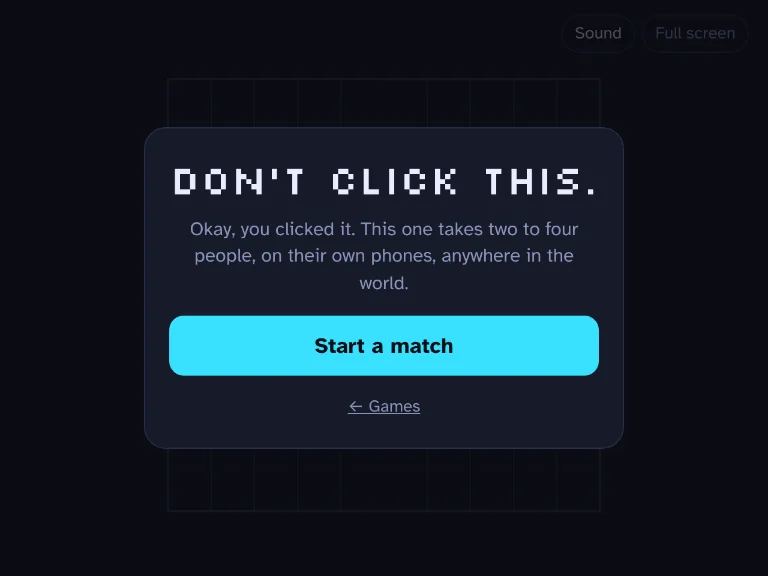
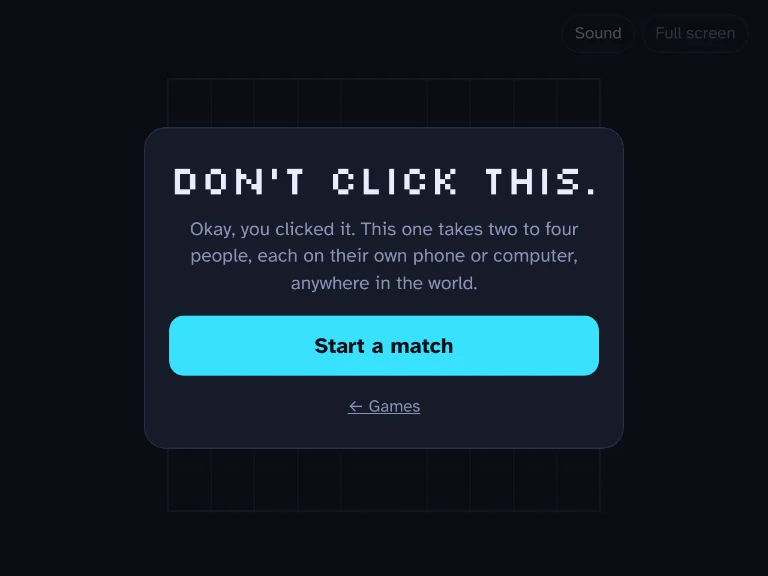
Rooms on computers too: background tabs stay in; Don't click this desktop fixes
rooms.js pings from a worker, so a computer with the match in a background tab
(throttled timers) isn't dropped; it also reconnects while hidden. Don't click
this: the Back button no longer shows while waiting alone (hidden was overridden
by CSS), computers get one big Copy link button and an arrow-key hint, and the
copy says screens and players, not phones. Harness opens computers; the game
test plays with three phones and a computer; rooms.js test covers a tab whose
timers are stopped.

Changed region(s): [[0.25, 0.4375, 0.75, 0.5]]

diff --git a/site/assets/rooms.js b/site/assets/rooms.js
@@ -27,6 +27,23 @@ window.Rooms = (function () {
     const c = (location.hash || '').slice(1).toLowerCase();
     return CODE.test(c) ? c : null;
   }
+  // A repeating timer that keeps time in a background tab. Browsers slow a hidden tab's own timers (Chrome to
+  // once a minute after five minutes), which would get a desktop player dropped from the match while they're in
+  // another tab, say pasting the link into a chat. A worker's timers aren't slowed that way, so pings keep going.
+  // Falls back to setInterval where a worker can't start.
+  function steady(fn, ms) {
+    try {
+      const src = 'setInterval(function () { postMessage(0); }, ' + ms + ');';
+      const url = URL.createObjectURL(new Blob([src], { type: 'text/javascript' }));
+      const w = new Worker(url);
+      URL.revokeObjectURL(url);
+      w.onmessage = fn;
+      return () => w.terminate();
+    } catch (e) {
+      const t = setInterval(fn, ms);
+      return () => clearInterval(t);
+    }
+  }
   const store = {
     get(k) { try { return sessionStorage.getItem(k); } catch (e) { return null; } },
     set(k, v) { try { sessionStorage.setItem(k, v); } catch (e) {} }
@@ -75,7 +92,7 @@ window.Rooms = (function () {
     if (!me) { me = newCode() + newCode(); store.set(meKey, me); }
 
     const handlers = {};
-    let ws = null, retries = 0, retryTimer = null, pingTimer = null, lastPong = 0, pingAt = 0, ready = false, done = false;
+    let ws = null, retries = 0, retryTimer = null, stopPings = null, lastPong = 0, pingAt = 0, ready = false, done = false;
     let kicks = 0, helloAt = 0;   // times the room let us go (too many messages, or silent) without a long stay in between
     const present = new Set();
     const room = {
@@ -108,7 +125,7 @@ window.Rooms = (function () {
       clearTimeout(retryTimer);
       if (done) return;
       if (ws) { ws.onclose = ws.onmessage = ws.onerror = null; try { ws.close(); } catch (e) {} }
-      clearInterval(pingTimer); lastPong = 0;
+      lastPong = 0;
       const q = new URLSearchParams({ me });
       if (room.game) q.set('game', room.game);
       if (opts.secret) q.set('s', opts.secret);
@@ -128,7 +145,7 @@ window.Rooms = (function () {
       retryTimer = setTimeout(dial, ms != null ? ms : retries === 1 ? 200 : Math.min(8000, 500 * Math.pow(2, retries - 2)));
     }
     function stop() {
-      clearTimeout(retryTimer); clearInterval(pingTimer);
+      clearTimeout(retryTimer); if (stopPings) { stopPings(); stopPings = null; }
       if (ws) { const s = ws; ws = null; s.onclose = s.onmessage = null; try { s.close(1000); } catch (e) {} }
     }
     function ping() {
@@ -152,7 +169,8 @@ window.Rooms = (function () {
         retries = 0; lastPong = helloAt = performance.now();
         const oldSeat = room.seat;
         room.seat = m.seat; room.max = m.max || 0; store.set(seatKey, String(m.seat));
-        clearInterval(pingTimer); pingTimer = setInterval(ping, PING_EVERY); ping();
+        if (!stopPings) stopPings = steady(ping, PING_EVERY);
+        ping();
         // After a reconnect, catch up on who came and went while we were away.
         const now = new Set(m.seats || []);
         for (const s of [...present]) if (!now.has(s)) { present.delete(s); if (ready) emit('leave', s); }
@@ -175,7 +193,6 @@ window.Rooms = (function () {
     }
 
     function onClose(code) {
-      clearInterval(pingTimer);
       if (ws) { ws.onclose = ws.onmessage = null; try { ws.close(); } catch (e) {} ws = null; }
       if (done) return;
       const refuse = reason => { done = true; setStatus('refused'); emit('refused', reason); };
@@ -184,8 +201,6 @@ window.Rooms = (function () {
       if (code === 4003) return refuse(opts.secret && !ready ? 'nope' : 'closed');
       if (code === 4004) return refuse('wrong-game');
       setStatus('reconnecting');
-      // A hidden page (another app, a locked phone) waits until it's looked at again; wake() reconnects it then.
-      if (document.visibilityState === 'hidden') return;
       if (code === 4005 || code === 4006) {
         // Let go by the room. Come straight back the first time; if it keeps happening, back off, so a game stuck
         // sending too much doesn't keep everyone seeing it leave and rejoin.

diff --git a/site/dont-click-this/index.html b/site/dont-click-this/index.html
@@ -5,20 +5,20 @@
 <meta name="viewport" content="width=device-width, initial-scale=1, viewport-fit=cover">
 <meta name="robots" content="noindex">
 <title>Don't click this — JonniePeed Games</title>
-<meta name="description" content="Up to four phones, anywhere. Send friends the link and find each other.">
+<meta name="description" content="Up to four players, on phones or computers, anywhere. Send friends the link and find each other.">
 <meta property="og:type" content="website">
 <meta property="og:site_name" content="JonniePeed Games">
 <meta property="og:title" content="Don't click this — JonniePeed Games">
-<meta property="og:description" content="Up to four phones, anywhere. Find each other.">
+<meta property="og:description" content="Up to four players, anywhere. Find each other.">
 <meta property="og:url" content="https://jonniepeed.games/dont-click-this/">
-<meta property="og:image" content="https://jonniepeed.games/dont-click-this/og.png?v=a8cd009a72">
+<meta property="og:image" content="https://jonniepeed.games/dont-click-this/og.png?v=0cd1d38aa7">
 <meta property="og:image:width" content="1200">
 <meta property="og:image:height" content="630">
 <meta property="og:image:alt" content="Two glowing dots, one blue and one orange, about to meet on a dark grid">
 <meta name="twitter:card" content="summary_large_image">
 <meta name="twitter:title" content="Don't click this — JonniePeed Games">
-<meta name="twitter:description" content="Up to four phones, anywhere. Find each other.">
-<meta name="twitter:image" content="https://jonniepeed.games/dont-click-this/og.png?v=a8cd009a72">
+<meta name="twitter:description" content="Up to four players, anywhere. Find each other.">
+<meta name="twitter:image" content="https://jonniepeed.games/dont-click-this/og.png?v=0cd1d38aa7">
 <meta name="twitter:image:alt" content="Two glowing dots, one blue and one orange, about to meet on a dark grid">
 <link rel="icon" href="../assets/favicon.ico?v=443c0101ac" sizes="any">
 <link rel="icon" type="image/png" href="../assets/favicon-32.png?v=569f3f592d">
@@ -28,6 +28,7 @@
 *{touch-action:manipulation}
 :root{--bg:#0b0d14;--ink:#e8ecff;--dim:#8a93b8;--you:#39e1ff;--them:#ff8a3d;--card:#151a29;--line:#262e48}
 *{box-sizing:border-box;margin:0}
+[hidden]{display:none!important}
 html,body{height:100%;background:var(--bg);color:var(--ink);font:16px/1.4 'Atkinson Hyperlegible',system-ui,sans-serif;overflow:hidden}
 #game{position:fixed;inset:0;background:var(--bg)}
 #c{position:absolute;inset:0;width:100%;height:100%;touch-action:none;display:block}
@@ -82,7 +83,7 @@ html,body{height:100%;background:var(--bg);color:var(--ink);font:16px/1.4 'Atkin
   <div class="overlay" id="titleCard">
     <div class="card">
       <h1>Don't click this.</h1>
-      <p>Okay, you clicked it. This one takes two to four people, on their own phones, anywhere in the world.</p>
+      <p>Okay, you clicked it. This one takes two to four people, each on their own phone or computer, anywhere in the world.</p>
       <button class="big" id="startBtn" type="button">Start a match</button>
       <a class="back" href="../">← Games</a>
     </div>
@@ -118,8 +119,8 @@ html,body{height:100%;background:var(--bg);color:var(--ink);font:16px/1.4 'Atkin
     </div>
   </div>
 </div>
-<script src="../assets/rooms.js?v=d1254e4c96"></script>
+<script src="../assets/rooms.js?v=70c7b43633"></script>
 <script src="audio.js?v=c699360794"></script>
-<script src="game.js?v=ea18b872ba"></script>
+<script src="game.js?v=e011cd435e"></script>
 </body>
 </html>

diff --git a/site/dont-click-this/game.js b/site/dont-click-this/game.js
@@ -22,6 +22,8 @@
   const banner = $('banner'), hint = $('hint'), roster = $('roster'), pingEl = $('ping');
   const titleCard = $('titleCard'), secretCard = $('secretCard'), shareCard = $('shareCard'), msgCard = $('msgCard');
   const inviteBtn = $('inviteBtn'), backBtn = $('backBtn');
+  // On a computer (a mouse and no touch screen), the hint mentions the arrow keys.
+  const keyboard = matchMedia('(hover: hover) and (pointer: fine)').matches;
   // Opening a match asks for the secret. It's always a meatball; the other two are random.
   const DECOYS = ['Pickle', 'Waffle', 'Taco', 'Pretzel', 'Dumpling', 'Burrito', 'Noodle', 'Nugget', 'Pancake', 'Crouton', 'Biscuit', 'Tater tot'];
 
@@ -179,9 +181,9 @@
   function syncHint() {
     const n = here().length;
     if (phase !== 'together') return;
-    hint.textContent = n === 0 ? 'Waiting for your friends to come back'
+    hint.textContent = (n === 0 ? 'Waiting for your friends to come back'
       : n === 1 ? 'Drag your dot into theirs'
-      : 'Touch a friend, or all pile into the middle';
+      : 'Touch a friend, or all pile into the middle') + (n && keyboard ? ' (or use the arrow keys)' : '');
   }
   function syncInvite() { inviteBtn.hidden = !(phase === 'together' && here().length + 1 < SEATS); }
   function drawRoster() {
@@ -247,7 +249,7 @@
     flash = big ? 1 : 0.5;
     SOUND.play('boom', big);
     buzz(big ? [200, 80, 300] : [120]);
-    if (big) say('WE DID IT', 'Different phones. One page. Across the internet.', 3600);
+    if (big) say('WE DID IT', 'Different screens. One page. Across the internet.', 3600);
     else if (performance.now() - lastPile > 3000) say(`×${booms}`, '', 900);   // don't cover EVERYONE!
   }
   function pile(mine) {
@@ -259,7 +261,7 @@
     flash = 1;
     SOUND.play('boom', true);
     buzz([300, 100, 300, 100, 400]);
-    say('EVERYONE!', `${seats.length} phones. One pile.`, 3600);
+    say('EVERYONE!', `All ${seats.length} of you. One pile.`, 3600);
   }
 
   // ---------- input ----------
@@ -310,6 +312,8 @@
   });
   inviteBtn.addEventListener('click', () => { SOUND.init(); SOUND.play('tap'); showShare(); });
   backBtn.addEventListener('click', () => { SOUND.play('tap'); hideCards(); });
+  // Computers without a share sheet get one button: Copy link, made the big one.
+  if (!navigator.share) { $('shareBtn').hidden = true; $('copyBtn').className = 'big'; }
   $('shareBtn').addEventListener('click', () => {
     SOUND.init();
     Rooms.share({ title: "Don't click this", text: "Play with me. Don't click this.", url: location.href }).then(r => { if (r === 'copied') copied(); });

diff --git a/tests/dont-click-this/test.py b/tests/dont-click-this/test.py
@@ -1,4 +1,4 @@
-"""Up to four phones in one match, end to end, against a local rooms Worker.
+"""Up to four players in one match, end to end, against a local rooms Worker: three phones and a computer.
 
 Start both servers first (see tests/rooms/harness.py, which this test uses):
 
@@ -20,8 +20,8 @@ SHOTS = Path(os.environ.get('SCREENSHOTS', '/tmp/dont-click-this'))
 SHOTS.mkdir(parents=True, exist_ok=True)
 
 
-def phone(phones):
-    page = phones.new()
+def phone(phones, desktop=False):
+    page = phones.new(desktop=desktop)
     return page.context, page
 
 
@@ -69,6 +69,7 @@ def main():
         link = a.input_value('#link')
         assert '#' in link and len(link.split('#')[1]) == 12, link
         a.wait_for_function("document.getElementById('ping').textContent === '' && !document.getElementById('shareCard').hidden")
+        assert a.locator('#waitText').is_visible() and a.locator('#backBtn').is_hidden(), 'alone: waiting, no Back button'
         a.screenshot(path=str(SHOTS / '2-waiting.png'))
         print('PASS start a match: link made, waiting for a friend')
 
@@ -117,14 +118,16 @@ def main():
         # A third and fourth phone join; everyone sees four.
         cc, c = phone(phones)
         c.goto(link)
-        cd, d = phone(phones)
+        cd, d = phone(phones, desktop=True)   # the fourth player is on a computer
         d.goto(link)
         for page in (a, b, c, d):
             wait_present(page, 4)
         assert a.locator('#inviteBtn').is_hidden()
+        assert 'arrow keys' in d.text_content('#hint') and 'arrow keys' not in a.text_content('#hint'), 'computers get the arrow-key hint'
+        d.screenshot(path=str(SHOTS / '6b-desktop-player.png'))
         c.wait_for_timeout(400)
         c.screenshot(path=str(SHOTS / '6-four-players.png'))
-        print('PASS four phones in one match, each sees all four; Invite hides when full')
+        print('PASS four players (three phones and a computer) in one match, each sees all four; Invite hides when full')
 
         # A fifth phone is turned away.
         ce, e = phone(phones)
@@ -136,7 +139,7 @@ def main():
 
         # Everyone piles into the middle: EVERYONE! on every phone.
         drag(c, 0.5, 0.28, 0.5, 0.5)
-        drag(d, 0.5, 0.72, 0.5, 0.5)
+        drag(d, 0.5, 0.72, 0.5, 0.5)   # with the mouse, on the computer
         drag(a, 0.5, 0.3, 0.5, 0.5)
         drag(b, 0.5, 0.3, 0.5, 0.5)
         for page in (a, b, c, d):

diff --git a/tests/rooms/harness.py b/tests/rooms/harness.py
@@ -1,7 +1,8 @@
 """Helpers for browser tests of games played together over the internet (site/assets/rooms.js).
 
-A test opens a few phone-sized browsers, each in its own context (its own session, like separate phones), and
-points them at the same match link. Start both servers first, then import this from a test:
+A test opens a few browsers, each in its own context (its own session, like separate devices), and points them
+at the same match link. Each is a phone by default; `phones.new(desktop=True)` is a computer with a mouse and a
+big window, so a test can mix the two the way real players do. Start both servers first, then import this from a test:
 
     python3 -m http.server 8000 --bind 127.0.0.1 --directory site
     (cd rooms && wrangler dev --local --port 8788 --var GHOST_MS:6000 --var LEAVE_GRACE_MS:500)
@@ -24,6 +25,7 @@ from playwright.sync_api import sync_playwright
 SITE = os.environ.get('SITE_URL', 'http://127.0.0.1:8000').rstrip('/')
 ROOMS_HTTP = 'http://localhost:8788'
 PHONE = dict(viewport={'width': 390, 'height': 844}, device_scale_factor=2, has_touch=True, is_mobile=True)
+DESKTOP = dict(viewport={'width': 1440, 'height': 900}, device_scale_factor=1, has_touch=False, is_mobile=False)
 
 
 def servers_up():
@@ -65,9 +67,9 @@ class Phones:
     def url(self, path=''):
         return SITE + '/' + path.lstrip('/')
 
-    def new(self, init_script=None, **options):
-        """A new phone: a fresh context (own session storage), one page."""
-        context = self.browser.new_context(**dict(self.options, **options))
+    def new(self, init_script=None, desktop=False, **options):
+        """A new player: a fresh context (own session storage), one page. A phone unless desktop=True."""
+        context = self.browser.new_context(**dict(DESKTOP if desktop else self.options, **options))
         self.contexts.append(context)
         page = context.new_page()
         if init_script:

diff --git a/tests/rooms/test.py b/tests/rooms/test.py
@@ -148,6 +148,23 @@ def main():
         assert dup.evaluate('room.players') == [2, 3]
         print('PASS a connection that dies silently is noticed and replaced; the player keeps its seat')
 
+        # ---------- background tabs ----------
+        # A computer with the match in a background tab: the browser slows that tab's own timers to a crawl.
+        # Here its setInterval and setTimeout do nothing at all; rooms.js pings from a worker, so it stays in.
+        bg = page_for(phones, init="window.setInterval = () => 0; window.setTimeout = () => 0;")
+        bg.set_viewport_size({'width': 1440, 'height': 900})
+        bg.goto(link)
+        bg.evaluate("watch(Rooms.join({ game: 'rooms-test' }))")
+        has(bg, "e[0] === 'ready' && e[1].seat === 1")
+        has(dup, "e[0] === 'join' && e[1] === 1")
+        since = dup.evaluate('log.length')
+        for _ in range(10):   # 10 s, past the local 6 s silent limit; messages keep the room checking
+            dup.evaluate("room.send({ t: 'tick' })")
+            dup.wait_for_timeout(1000)
+        assert bg.evaluate('sockets.length') == 1 and bg.evaluate("room.status") == 'connected'
+        assert not dup.evaluate(f"log.slice({since}).some(e => e[0] === 'leave' && e[1] === 1)")
+        print('PASS a tab whose own timers are stopped (a background tab) keeps pinging and stays in')
+
         wait(dup, 'room.rtt > 0')
         print('PASS round trip measured:', dup.evaluate('room.rtt'), 'ms')
         phones.check_no_errors()

diff --git a/tools/og/make.py b/tools/og/make.py
@@ -52,7 +52,7 @@ GAMES = [
      # the Mom Cam is in the cover's top-left corner, so the crop sits near the left edge
      None, {"cover": ("dont-step-on-a-crack.png", 0.18)}),
     # Side B two-player demo: a screenshot of its title card
-    ("dont-click-this", "Don't click this", "Up to four phones, anywhere. Find each other.", "Play with friends",
+    ("dont-click-this", "Don't click this", "Up to four players, anywhere. Find each other.", "Play with friends",
      None, {"screenshot": True}),
 ]
 

diff --git a/docs/games/dont-click-this.md b/docs/games/dont-click-this.md
@@ -1,6 +1,6 @@
 # Don't click this
 
-An unlisted proof of concept for playing together over the internet. Up to four phones, anywhere: one starts a match and sends the link, friends open it, and each sees everyone's dots moving live. When two dots touch they burst ("WE DID IT" the first time), and when three or four pile up together, every phone goes off: "EVERYONE!".
+An unlisted proof of concept for playing together over the internet. Up to four players, on phones or computers, anywhere: one starts a match and sends the link, friends open it, and each sees everyone's dots moving live. When two dots touch they burst ("WE DID IT" the first time), and when three or four pile up together, every phone goes off: "EVERYONE!".
 
 - Page: `site/dont-click-this/` (`index.html`, `audio.js`, `game.js`), noindexed. **Unlisted:** no card on Side A or Side B; reached only by its direct link, https://jonniepeed.games/dont-click-this/. It still has an `og.png` so a texted link shows a preview; `tools/og/make.py` also writes a `thumb.webp`, unused until it gets a card.
 - Connection: `site/assets/rooms.js` and the rooms Worker, [05: Rooms](../guides/05-rooms.md), with the "each phone owns its own stuff" pattern. Rooms open with `game: 'dont-click-this'` and `max: 4`.
@@ -11,18 +11,18 @@ An unlisted proof of concept for playing together over the internet. Up to four 
 
 1. **Title card:** "Don't click this." and **Start a match**.
 2. **Start a match** asks "What's the secret?" with three buttons: Meatball and two random decoys, in random order. The secret is always a meatball. The room checks the answer (it isn't in the page); a wrong pick shakes the card, says "Nope. That's not the secret." and deals new decoys.
-3. **The right pick** opens the match (`Rooms.open` makes the code and puts it in the page's `#`) and shows the share card: "Send this to friends", the link, **Send link** (the phone's share sheet; copies the link where there is none), **Copy link**, and "Waiting for your friend…".
+3. **The right pick** opens the match (`Rooms.open` makes the code and puts it in the page's `#`) and shows the share card: "Send this to friends", the link, **Send link** (the share sheet) and **Copy link**, and "Waiting for your friend…". Where there's no share sheet (most computers), **Copy link** is the only, big button.
 4. **A friend opens the link** and needs no secret. It joins straight away. Every phone plays the join sound and buzzes, and shows "Orange is here!" (or "2 friends are here!" for someone joining a match already going). Later arrivals show "Green joined" and "3 of you now."
 5. **Seats and colors.** Each phone gets a seat in the order they join, and a seat keeps its color on every phone: 1 Blue, 2 Orange, 3 Green, 4 Pink. The top bar shows a dot for each player, with yours ringed and marked "You"; someone who left stays there, faded. Dots are named under them ("you", "orange"…); a name that would sit on top of another is left out.
-6. **Each player drags their own dot.** Friends' dots have a short trail and a dashed line to yours. A ring pulses around a dot while its player is touching the screen. Arrow keys move the dot on a keyboard.
-7. **Touches.** Your dot touching a friend's bursts in both colors. The first time: "WE DID IT", "Different phones. One page. Across the internet.", a big burst and a buzz. After that, a count ("×2"). Two friends touching each other shows a smaller burst on your screen. A pair has to move apart before it counts again.
-8. **Pile-up.** With three or four in the match, everyone crowding into one spot at once sets off "EVERYONE!" and "N phones. One pile." on every phone, with the biggest burst and buzz. Spread out to set it up again.
+6. **Each player drags their own dot,** with a finger or the mouse. Friends' dots have a short trail and a dashed line to yours. A ring pulses around a dot while its player is pressing. Arrow keys move the dot on a computer, and the hint says so there ("(or use the arrow keys)") but not on touch screens.
+7. **Touches.** Your dot touching a friend's bursts in both colors. The first time: "WE DID IT", "Different screens. One page. Across the internet.", a big burst and a buzz. After that, a count ("×2"). Two friends touching each other shows a smaller burst on your screen. A pair has to move apart before it counts again.
+8. **Pile-up.** With three or four in the match, everyone crowding into one spot at once sets off "EVERYONE!" and "All N of you. One pile." on every screen, with the biggest burst and buzz. Spread out to set it up again.
 9. **Invite.** While fewer than four are playing, an **Invite** button in the top bar shows the share card again, with **Back to the game**.
 10. **The bottom line** shows the hint and "~N ms apart": your half of the round trip to the room plus the slowest friend's half.
 11. **If someone leaves:** "Green left" and "They can come back with the same link". Their dot fades where it was. The same link brings them back ("Green is back").
 12. **A fifth phone** with the link sees "This match is full" and can start its own.
 13. **A made-up link**, or one more than a week old, says "This match isn't open".
-14. **A dropped connection** (wifi to mobile data, a locked phone) shows "Reconnecting…" and reconnects on its own, keeping its seat; returning to the page reconnects at once. A reload comes back in the same seat and color.
+14. **A dropped connection** (wifi to mobile data, a locked phone) shows "Reconnecting…" and reconnects on its own, keeping its seat; returning to the page reconnects at once. A reload comes back in the same seat and color. A computer with the match in a background tab stays in.
 15. **The same match open in a second tab** takes over; the first says "Open somewhere else".
 
 ## Layout and tuning (`game.js`)
@@ -48,4 +48,4 @@ Start the site server and a local rooms Worker (see [Testing](../guides/05-rooms
 CHROMIUM=/usr/bin/chromium python3 tests/dont-click-this/test.py
 ```
 
-It plays a whole match with phone-sized browsers: a wrong secret, then Meatball, the share link, a second phone joining, a drag seen on the other phone, "WE DID IT" on both, the ms readout, a made-up link refused, Invite and Back, third and fourth phones joining (everyone sees four), a fifth turned away, all four piling up for "EVERYONE!" on every phone, leaving and rejoining, and landscape and desktop layouts. Screenshots go to `/tmp/dont-click-this` (`SCREENSHOTS` changes it).
+It plays a whole match with three phone-sized browsers and a computer: a wrong secret, then Meatball, the share link, a second phone joining, a drag seen on the other phone, "WE DID IT" on both, the ms readout, a made-up link refused, Invite and Back, a third phone and a computer joining (everyone sees four; the computer gets the arrow-key hint), a fifth turned away, all four piling up for "EVERYONE!" on every screen, leaving and rejoining, and landscape and desktop layouts. Screenshots go to `/tmp/dont-click-this` (`SCREENSHOTS` changes it).

diff --git a/docs/guides/05-rooms.md b/docs/guides/05-rooms.md
@@ -2,6 +2,8 @@
 
 Rooms let friends play a game together over the internet from a link. One player starts a match and texts the link; whoever opens it is in. No accounts, no app, nothing to install. It runs on Cloudflare's free plan.
 
+It works in any current browser on phones, tablets and computers, mixed in one match. This guide says "phone" for short; it means any of them. A game still has to suit each one: touch and a mouse both work through pointer events, and computers can also have keys (see [Phones and computers](#phones-and-computers)).
+
 There are two parts:
 
 - **The rooms Worker** (`rooms/`, at `rooms.jonniepeed.games`). It seats players, says who the host is and passes messages between phones. It knows nothing about any game, so a new game never needs a change here.
@@ -75,6 +77,14 @@ Every phone runs the full game from the same seed and applies everyone's inputs 
 - Process things in a fixed order (arrays, sorted by id), never in an order that depends on timing.
 
 To check, run the same seed and inputs headless in Chromium and in WebKit (Safari's engine) and compare checksums at the end. Playwright can run both: `python3 -m playwright install webkit` works on your own computer and on GitHub Actions. (The cloud session can't download it.)
+
+### Phones and computers
+
+- **Controls.** Use pointer events (`pointerdown`, `pointermove`, `pointerup`) so touch, mouse and pen all work; add keys for computers. Don't click this moves the dot by dragging or with the arrow keys, and only mentions the keys where there's a mouse (`matchMedia('(hover: hover) and (pointer: fine)')`).
+- **Sharing.** `Rooms.share` uses the share sheet where there is one (phones, Safari and Edge on computers) and copies the link where there isn't. A computer with no share sheet is better served by one "Copy link" button than a "Send" button that silently copies; check `navigator.share`.
+- **Background tabs.** On a computer, a player often switches tabs while they wait, say to paste the link into a chat. Browsers slow a hidden tab's own timers, Chrome to once a minute after five minutes, which would get them dropped. rooms.js pings from a worker, whose timers aren't slowed that way, so they stay in. A tab the browser freezes or discards entirely (to save memory) drops out and rejoins its seat when it's looked at again.
+- **Phones in the background.** Switching apps or locking a phone usually pauses the page completely. The room lets it go after 15 seconds; it comes back to its seat when the player returns. A game should pause or show a friend as away rather than end the match.
+- **Testing.** `tests/rooms/harness.py` opens computers as well as phones (`phones.new(desktop=True)`); Don't click this's test plays with three phones and a computer.
 
 ### Catching up a late joiner
 
@@ -153,9 +163,9 @@ GHOST_MS=6000 LEAVE_GRACE_MS=500 node rooms/test/relay.mjs   # the room itself
 CHROMIUM=/usr/bin/chromium python3 tests/rooms/test.py       # rooms.js in real browsers
 ```
 
-The relay test covers the secret, room size and game, seats and the host, `to`, message limits and errors, the rate limit, silent phones, the leave grace period, reconnecting and rooms from the first version. The rooms.js test covers opening and joining, events, every refusal, a dropped connection, a reload, a duplicated tab, host changes and a connection that dies silently.
+The relay test covers the secret, room size and game, seats and the host, `to`, message limits and errors, the rate limit, silent phones, the leave grace period, reconnecting and rooms from the first version. The rooms.js test covers opening and joining, events, every refusal, a dropped connection, a reload, a duplicated tab, host changes, a connection that dies silently, and a background tab whose own timers are stopped.
 
-**Testing a game:** `tests/rooms/harness.py` opens several phone-sized browsers, each with its own session like separate phones, and collects page errors. `tests/dont-click-this/test.py` uses it to play a whole four-phone match. Still try a new game on two real phones on different networks before calling it done; that's the only test of real signal.
+**Testing a game:** `tests/rooms/harness.py` opens several browsers, each with its own session like separate devices, phones by default or computers with `desktop=True`, and collects page errors. `tests/dont-click-this/test.py` uses it to play a whole match with three phones and a computer. Still try a new game on two real devices on different networks, ideally a phone and a computer, before calling it done; that's the only test of real signal.
 
 ## Adding a game
 
@@ -163,4 +173,5 @@ The relay test covers the secret, room size and game, seats and the host, `to`, 
 2. Pick a pattern (above) and design the messages: a `t` for the type, short keys, at most about 30 a second per phone.
 3. Handle `join`, `leave` and `refused`. For the host or same-game patterns, handle `host` and catch up joiners with `sendTo`.
 4. Show `room.status` when it's `reconnecting`.
-5. Write a test with `tests/rooms/harness.py`, and play it on two real phones.
+5. Make it work with touch, a mouse and keys ([Phones and computers](#phones-and-computers)).
+6. Write a test with `tests/rooms/harness.py`, with at least one computer, and play it on two real devices.

diff --git a/README.md b/README.md
@@ -12,7 +12,7 @@ site/                   everything that gets published
   thimbleful/           catch-the-drips game, with a "Just watch" mode (#watch)
   stick-army/           notebook turret game with recruits and a between-wave shop (Side B demo, noindexed)
   dont-step-on-a-crack/  first-person sidewalk game; title screen runs a demo walk, Mom Cam in the HUD
-  dont-click-this/      up to four phones, anywhere: send a link, find each other (unlisted; the first game on rooms)
+  dont-click-this/      up to four players on phones or computers: send a link, find each other (unlisted; the first game on rooms)
   assets/               shared fonts, leaderboard, play stats and rooms clients (rooms.js), dark mark and favicons
   assets/studio/        logos, ident.js, audio.js, light mark, og.png and external-game thumbnails
   <slug>/og.png         game-owned social preview card
